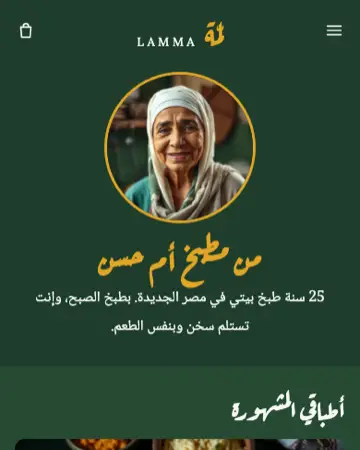
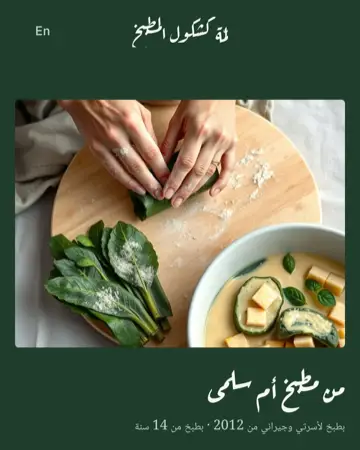
fix(lamma): 44px story link, arabic portion labels, storefront look thumbnails
Claude-Session: https://claude.ai/code/session_01GeHFETcBQ3jaGrN6Q6L6W5

diff --git a/apps/web/src/builder/sections/MakerProfileSection.tsx b/apps/web/src/builder/sections/MakerProfileSection.tsx
@@ -156,7 +156,7 @@ export function MakerProfileSection({
             {link && story && (
               <a
                 href={link}
-                className="mt-4 inline-flex min-h-11 items-center text-sm font-semibold text-foreground underline decoration-primary underline-offset-4"
+                className="mt-4 inline-flex min-h-11 min-w-11 items-center text-sm font-semibold text-foreground underline decoration-primary underline-offset-4"
               >
                 {t('Read the story', 'اقرأ الحكاية')}
               </a>
